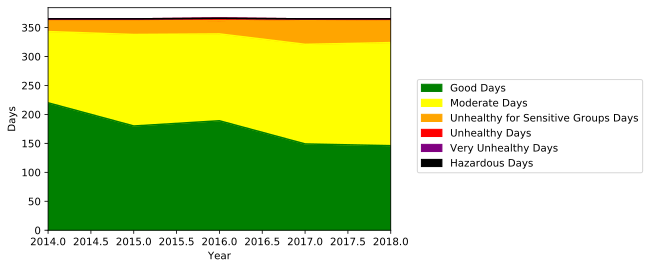
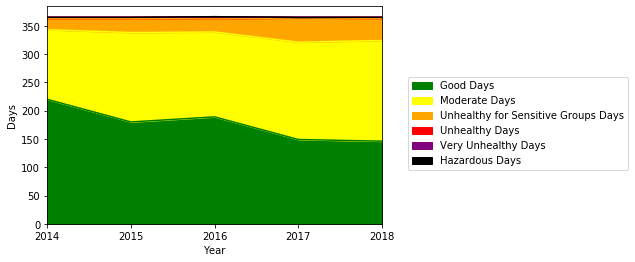
updated pics

diff --git a/_posts/2020-02-29-SLC-Air-Quality.md b/_posts/2020-02-29-SLC-Air-Quality.md
@@ -551,8 +551,8 @@ import matplotlib.pyplot as plt
 fig = df_AQI.plot.area(x='Year', color = ['green', 'yellow','orange', 'red', 'purple', 'black'])
 fig.legend(loc ='upper right',frameon=True, bbox_to_anchor=(1.75, 0.7))
 plt.ylabel('Days')
-#plt.savefig(r'C:\Users\Pat\Desktop\Patrick-DeBiasse.github.io\assets\images\SLC_Air_Quality\test_4.svg', format='svg', dpi=1200, bbox_inches='tight')
-plt.show()
+plt.savefig(r'C:\Users\Pat\Desktop\Patrick-DeBiasse.github.io\assets\images\SLC_Air_Quality\rating_by_year.png', bbox_inches='tight')
+#plt.show()
 ```
 
 
@@ -561,7 +561,7 @@ plt.show()
 
 <center>
 
-<img src="{{ site.url }}{{ site.baseurl }}/assets/images/SLC_Air_Quality/test_6.PNG" alt="Plot of AQI by year from 1980 to 2018">
+<img src="{{ site.url }}{{ site.baseurl }}/assets/images/SLC_Air_Quality/rating_by_year.png" alt="Plot of AQI by year from 1980 to 2018">
 
 </center>
 
@@ -577,19 +577,13 @@ df_AQI_recent = df_AQI[df_AQI.Year > 2013]
 
 fig = df_AQI_recent.plot.area(x='Year', color = ['green', 'yellow','orange', 'red', 'purple', 'black'])
 fig.legend(loc ='upper right',frameon=True, bbox_to_anchor=(1.75, 0.7))
+plt.xticks([2014, 2015, 2016, 2017, 2018])
 plt.ylabel('Days')
-#plt.savefig(r'C:\Users\Pat\Desktop\Patrick-DeBiasse.github.io\assets\images\SLC_Air_Quality\recent_AQI.svg', format='svg', dpi=1200, bbox_inches='tight')
+plt.savefig(r'C:\Users\Pat\Desktop\Patrick-DeBiasse.github.io\assets\images\SLC_Air_Quality\recent_AQI.png', bbox_inches='tight')
 ```
 
 
-
-
-    Text(0, 0.5, 'Days')
-
-
-
-
-![png](output_10_1.png)
+![png](output_10_0.png)
 
 
 <center>
@@ -649,7 +643,7 @@ The plot above shows which pollutant is the primary contributor to poor air qual
 
 Sulfur dioxide was the dominant pollutant from 1980 to 1995, at which point SO2 was greatly reduced and ozone surged. Today ozone is the biggeset contributor to poor air quality, and PM2.5 has also had a concerning rise since 2000.
 
-What causes these pollutants? How harmful are they? How can we get cleaner air in the valley?
+What causes these pollutants? How harmful are they? Why are they increasing? How can we get cleaner air in the valley?
 
 **Discussion**:
 
